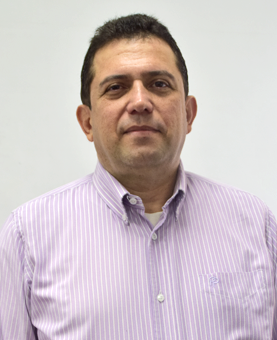
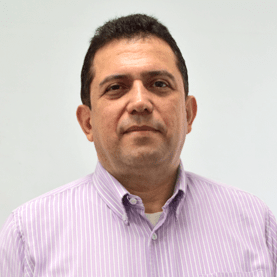
Change about page

diff --git a/pages/about.html b/pages/about.html
@@ -5,10 +5,7 @@
         <meta http-equiv="X-UA-Compatible" content="IE=edge" />
         <meta name="viewport" content="width=device-width, initial-scale=1.0" />
         <link rel="preconnect" href="https://fonts.gstatic.com" />
-        <link
-            href="https://fonts.googleapis.com/css2?family=Roboto+Condensed&display=swap"
-            rel="stylesheet"
-        />
+        <link href="https://fonts.googleapis.com/css2?family=Roboto+Condensed&display=swap" rel="stylesheet" />
         <link rel="stylesheet" href="../css/about.css" />
         <link rel="shortcut icon" href="../images/logo.svg" type="image/x-icon" />
         <title>Numismática Martínez</title>
@@ -38,18 +35,17 @@
         </header>
         <section class="section">
             <article class="description">
-                <div class="details">
-                    <h2>¡Hola!</h2>
-                    <p>
-                        Soy Juan Carlos Marínez, me gusta coleccionar monedas y billetes del mundo.
-                        Quiero compartir contigo mi colección y, si también te gusta coleccionar
-                        como a mí ¡podemos intercambiar!, sólo
-                        <a href="contact.html">escríbeme</a> y te responderé en cuanto pueda.
-                    </p>
-                </div>
                 <figure>
                     <img src="../images/profesor.png" alt="Imagen del profesor" />
                 </figure>
+                <div class="details">
+                    <h2>¡Hola!</h2>
+                    <p>
+                        Soy Juan Carlos Marínez, me gusta coleccionar monedas y billetes del mundo. Quiero compartir contigo mi colección y, si también te gusta coleccionar como a mí ¡podemos
+                        intercambiar!, sólo
+                        <a href="contact.html">escríbeme</a> y te responderé en cuanto pueda.
+                    </p>
+                </div>
             </article>
         </section>
         <footer class="footer">
@@ -58,8 +54,7 @@
                 <p>Numismática Martínez</p>
                 <p>
                     Designed with ❤ by:
-                    <a href="https://github.com/juanjo44">Juan José Betancourt</a>,
-                    <a href="https://github.com/NicolasDelgado1228">Nicolás Delgado</a>,
+                    <a href="https://github.com/juanjo44">Juan José Betancourt</a>, <a href="https://github.com/NicolasDelgado1228">Nicolás Delgado</a>,
                     <a href="https://github.com/paladinescamila">Camila Paladines</a>
                 </p>
             </div>

diff --git a/css/about.css b/css/about.css
@@ -9,23 +9,40 @@
 
 .description {
     display: flex;
+    flex-direction: column;
     align-items: center;
     justify-content: space-between;
-    padding-top: 65px;
+    padding-top: 20px;
+    width: 40vw;
 }
 
 .details {
-    width: 500px;
+    display: flex;
+    flex-direction: column;
+    align-items: center;
+    width: 100%;
 }
 
 .details h2 {
+    color: #222;
     font-size: 2.7em;
+    margin: 20px 0 0 0;
 }
 
 .details p {
+    color: #555;
     font-size: 1.3em;
+    margin: 20px 0;
+    text-align: center;
 }
 
 .details a {
-    color: #555;
+    color: #999;
+}
+
+.description img {
+    box-shadow: none;
+    border: 2px solid #777;
+    border-radius: 50%;
+    width: 15vw;
 }
